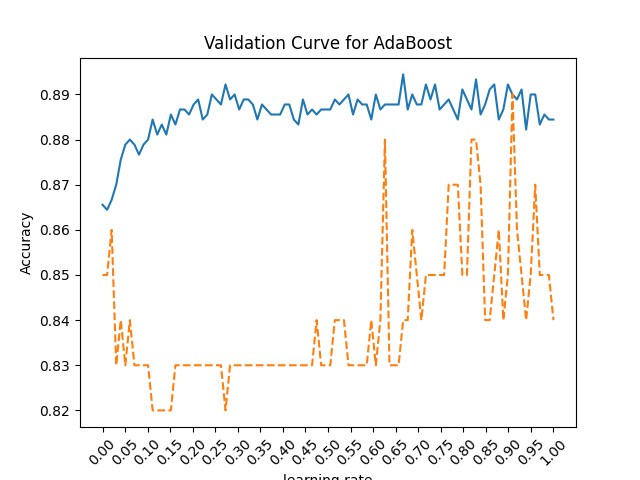
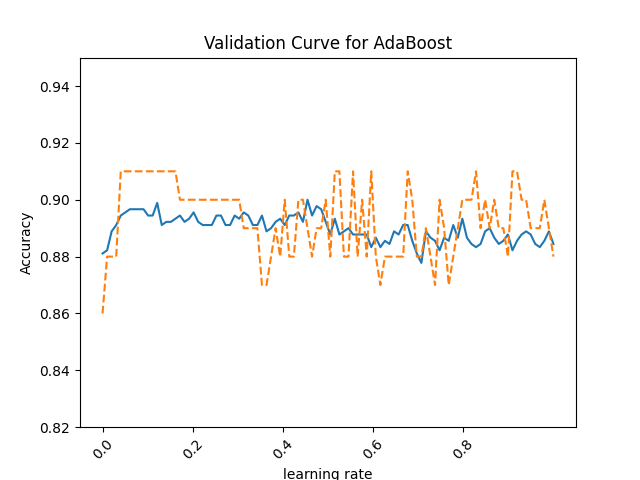
regenerate plot

diff --git a/adaB_validationCurve_learning_rate.py b/adaB_validationCurve_learning_rate.py
@@ -44,8 +44,8 @@ plt.plot(learning_rate_range, val_scores, label='Validation', linestyle='--')
 # plt.xticks(5)
 plt.xticks(rotation=45) 
 import numpy as np
-plt.xticks(np.arange(min(learning_rate_range), max(learning_rate_range) + 0.01, 0.05))
-
+plt.xticks(np.arange(min(learning_rate_range), max(learning_rate_range), 0.2))
+plt.ylim(0.82,0.95)
 plt.xlabel('learning rate')
 plt.ylabel('Accuracy')
 plt.title('Validation Curve for AdaBoost')

diff --git a/adaB_test_valid_curve.py b/adaB_test_valid_curve.py
@@ -145,6 +145,7 @@ plt.plot(df[p_name], df['Test Accuracy'], label = 'Test Accuracy', marker='*', c
 if p_name == 'gamma':
     plt.xscale('log')
 plt.xlabel(f'{p_name}')
+plt.ylim(0.82,0.95)
 plt.ylabel('Accuracy')
 plt.title('Train vs Test Accuracy')
 plt.legend()
